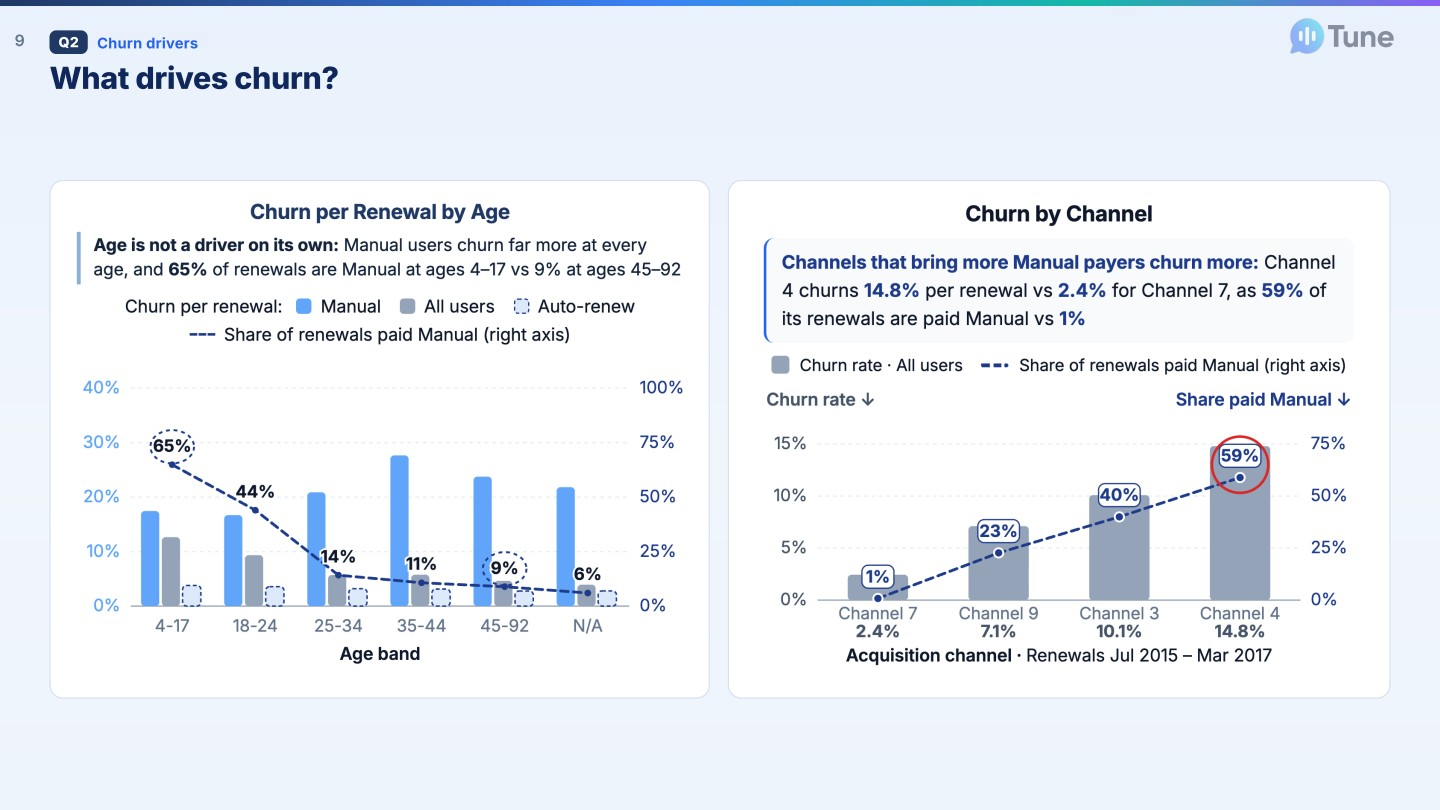
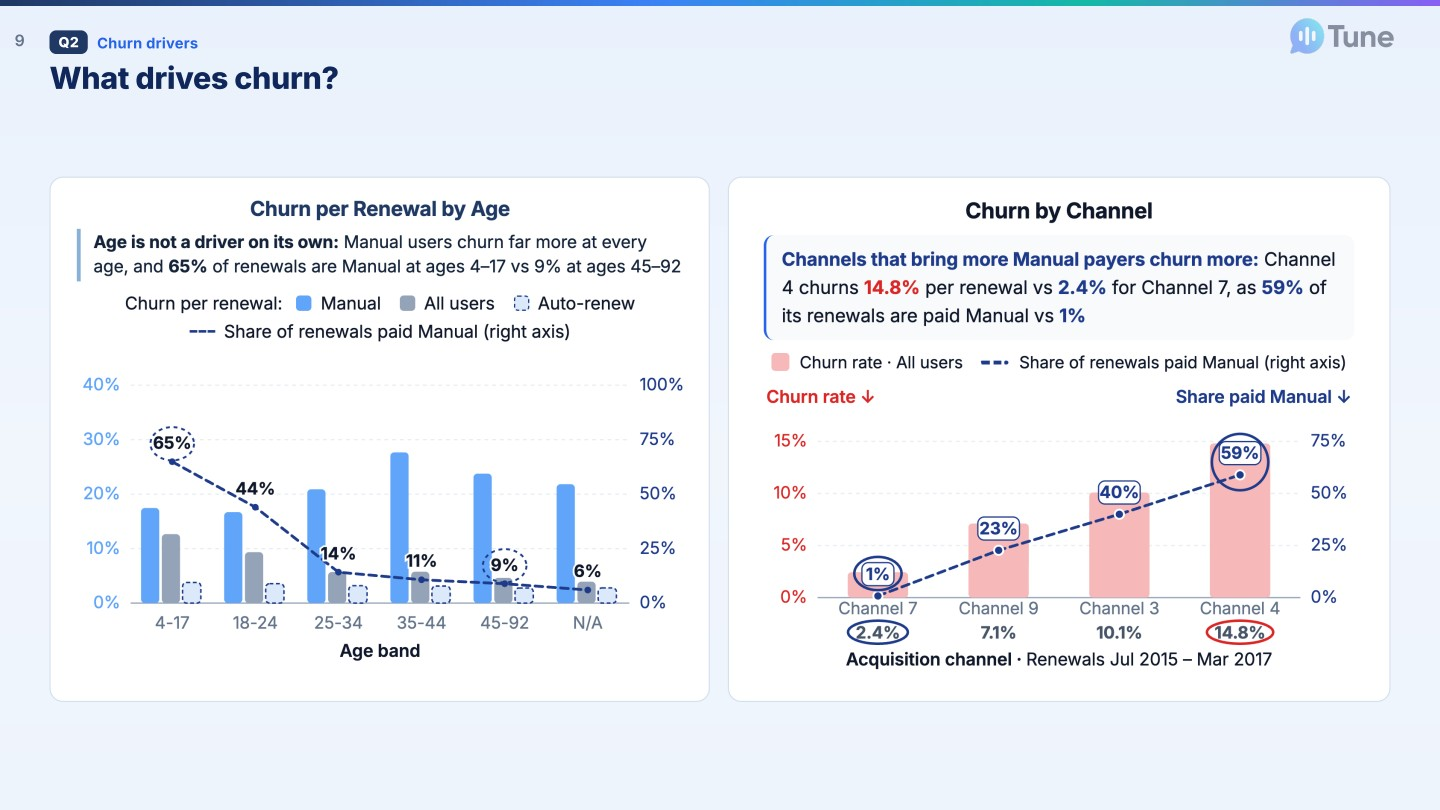
Deck slide 9: churn by channel shows churn in red, with rings on Channel 4 and Channel 7

diff --git a/index.html b/index.html
@@ -3726,7 +3726,7 @@ const ISSUES = { raw_users: "U1-U11: age 0 or out of range, gender missing, regi
   raw_churn_labels: "L4-L7: labels don't match a naive 'due in March' population" };
 
 // ---------------- tabs ----------------
-const DECKV = "1118fnt";  // change on every deck update so browsers load the new slide images, not a cached copy
+const DECKV = "1118s09r";  // change on every deck update so browsers load the new slide images, not a cached copy
 const GROUPS = {
   intro: [["overview", "Overview"]],
   p1: [["dq", "1a · Data quality"], ["lineage", "1b.1 · Clean layer & data model"], ["explorer", "1b.2 · Explorer & SQL"], ["churn", "1c · Churn check"]],
